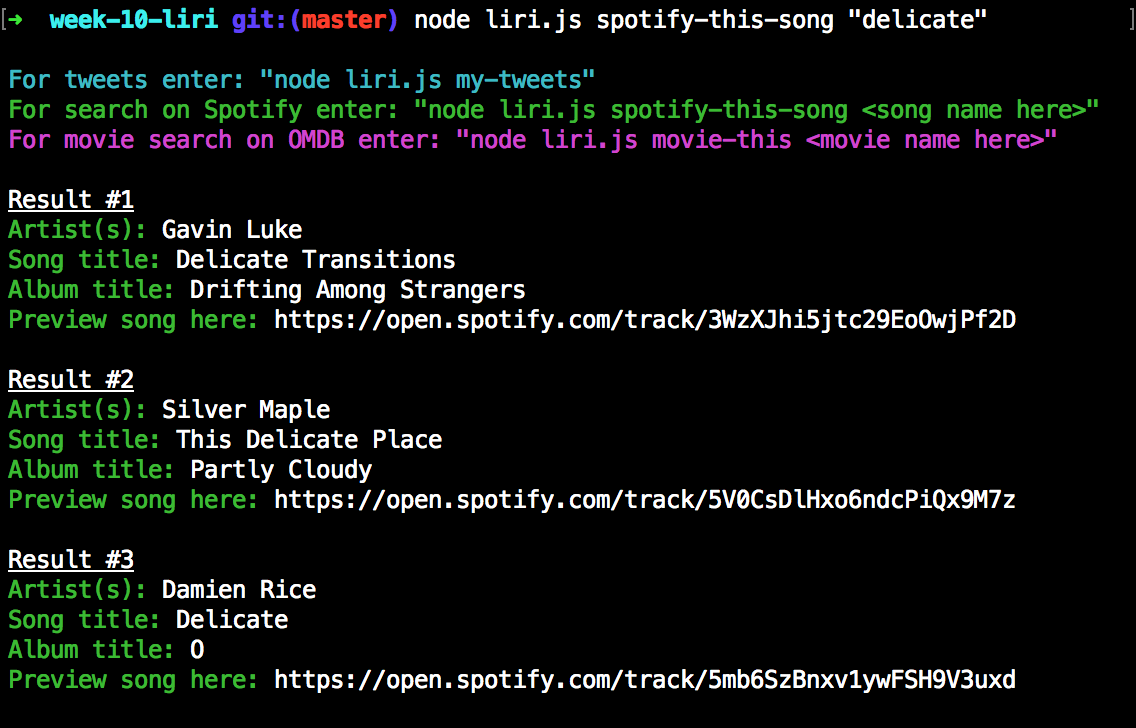
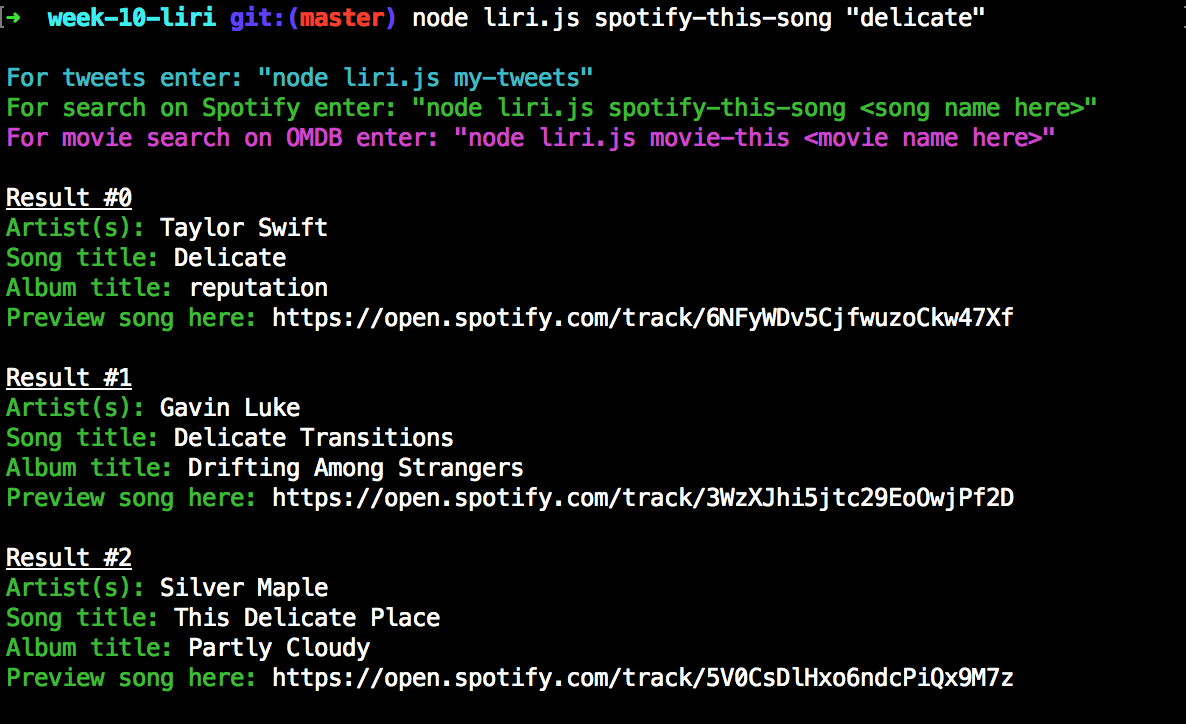
redoing for loop, did not work

diff --git a/liri.js b/liri.js
@@ -79,8 +79,7 @@ function mySpotify(){
 	 //save data for easier callback
 	 var songData = data.tracks.items;
 
-	 // used for loop with "i=1" only for the sole purpose of console.logging the results list to start at number 1 :)
-	 for (var i = 1; i < songData.length; i++){
+	 for (var i = 0; i < songData.length; i++){
 	 	console.log(colors.underline("Result #".underline + i));
 	 	console.log("Artist(s): ".green + songData[i].artists.map(getArtists));
 	 	console.log("Song title: ".green + songData[i].name);
